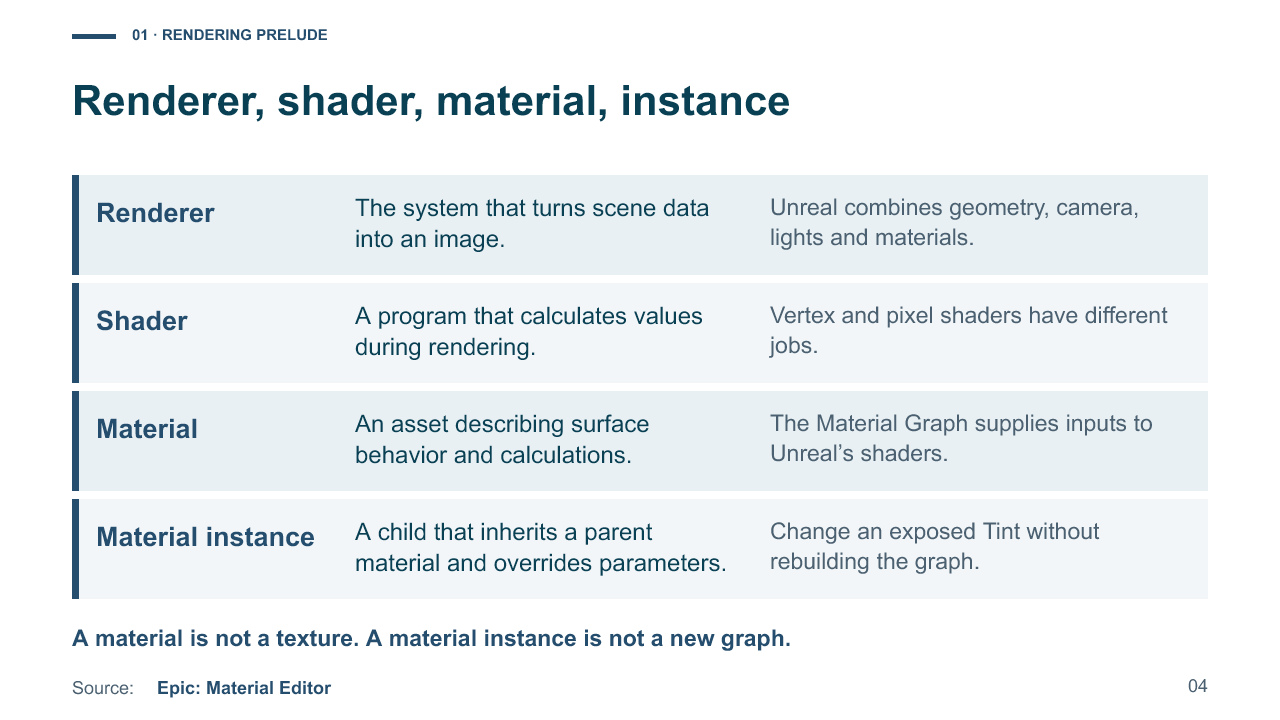
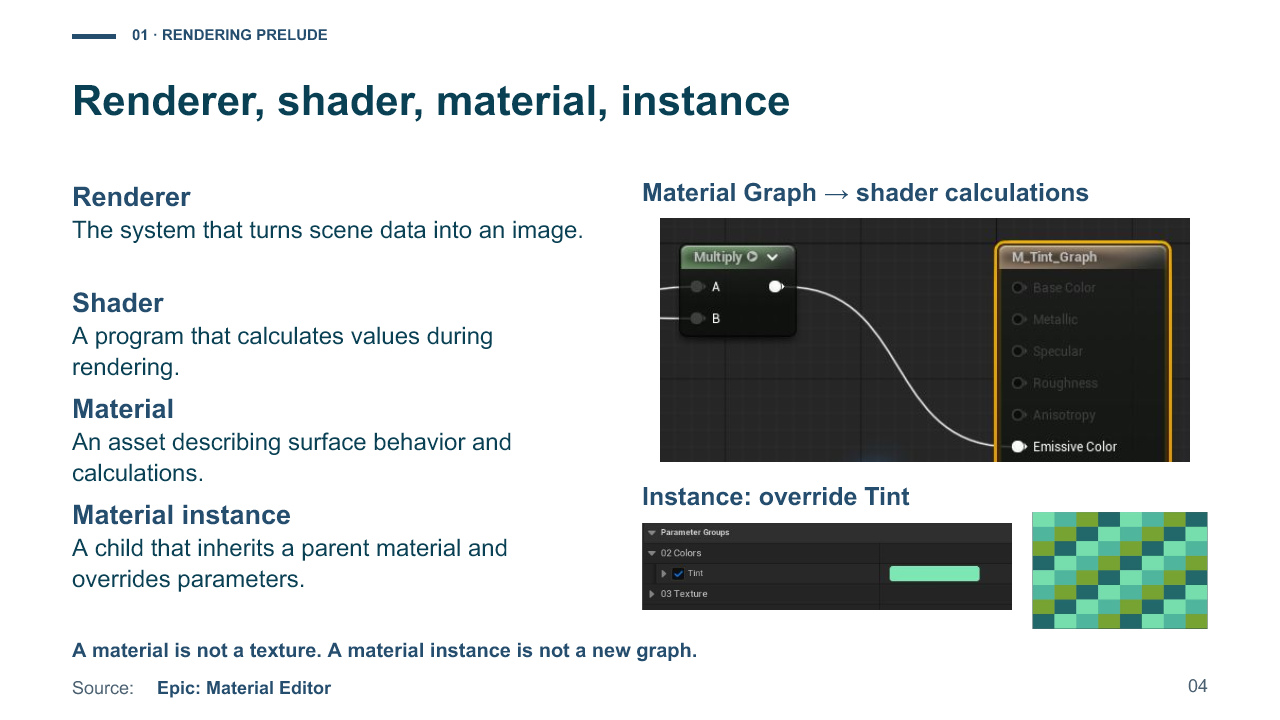
Illustrate the rendering prelude and refresh the current deck

Changed region(s): [[0.0312, 0.2444, 0.9688, 0.9167]]

diff --git a/docs/slides/index.html b/docs/slides/index.html
@@ -1,4 +1,4 @@
-<!doctype html><html lang="en"><meta charset="utf-8"><meta name="viewport" content="width=device-width,initial-scale=1"><title>Week 8 · Shaders &amp; Rendering</title><style>*{box-sizing:border-box}body{font:18px/1.6 Arial;margin:0;background:#edf3f4;color:#123e4d}main,header{max-width:1240px;margin:auto;padding:24px}h1{font-size:42px;line-height:1.15}h2{margin-top:0}a{color:#087c78}nav{display:flex;gap:22px;flex-wrap:wrap}article,section.card{background:white;padding:24px;margin:24px 0;border-top:3px solid #09988e}img{max-width:100%;height:auto}pre,code{font-family:Consolas,monospace;overflow-wrap:anywhere}pre{white-space:pre-wrap;background:#edf3f4;padding:15px}table{border-collapse:collapse;width:100%}th,td{padding:12px;border:1px solid #b9ced0;text-align:left}th{background:#0a4054;color:white}input,select,button,textarea{font:inherit;padding:10px;color:inherit}textarea{width:100%;min-height:110px}small{color:#526c75}.grid{display:grid;grid-template-columns:repeat(2,minmax(0,1fr));gap:20px}.tag{color:#087c78;font-size:14px;text-transform:uppercase}details{margin:15px 0}summary{cursor:pointer}button{cursor:pointer;background:white;border:1px solid #78a4aa}a:focus-visible,button:focus-visible,input:focus-visible{outline:3px solid #e3a635} @media(max-width:800px){.grid{grid-template-columns:1fr}h1{font-size:32px}}@media print{nav,button{display:none}article{break-inside:avoid}}body{background:#102e3c;color:white}header{max-width:none;padding:10px 24px;display:flex;gap:15px;align-items:center;flex-wrap:wrap}header a{color:#a2e1dc}main{padding:8px 20px;max-width:1400px}#stage{position:relative;aspect-ratio:16/9;background:white}#slide{display:block;width:100%;height:100%;object-fit:contain}#motion{position:absolute;object-fit:contain}#demo{width:100%;height:100%;border:0;position:absolute;inset:0;background:#edf3f4}#notes{background:#fff;color:#123e4d;padding:22px}#notes p{white-space:pre-wrap}#keySources{background:#edf3f4;color:#123e4d;padding:16px 22px;margin:14px 0}#keySources:empty{display:none}#keySources a{color:#087b77;font-weight:bold}#keySources p{margin:4px 0 14px;font-size:16px}#caption{margin:8px 0}select{max-width:420px}a[hidden],button[hidden],img[hidden],iframe[hidden]{display:none}header button,header select{color:#123e4d;background:#fff}/* classroom-fit: show the entire slide without vertical cropping */ #stage{width:min(100%,calc((100dvh - 165px)*16/9));margin:0 auto;min-width:0} @media(max-width:700px){#stage{width:100%}} </style><header><a href="../../index.html">Classroom</a><a href="../class-guide.html">Class guide</a><a href="../dig-deeper.html">References</a><button id="prev">← Previous</button><button id="next">Next →</button><select id="route" aria-label="Presentation route"><option value="live">Live route</option><option value="all">All slides + optional</option></select><select id="chapter" aria-label="Agenda chapter"></select><select id="pick" aria-label="Slide"></select><a id="guest" href="../guest/Rasterization.pdf" target="_blank" rel="noopener" hidden>Ned’s original slides (PDF)</a><button id="live" hidden>Explore live GLSL</button><button id="motionButton" hidden>Pause animation</button><a href="https://github.com/anthonymonteagudo/Week08-Shaders/releases/download/week08-2026-10-22/Week08_Shaders_Rendering_v5_Final.pptx">Download PowerPoint</a></header><main><div id="stage"><img id="slide" alt=""><img id="motion" alt="Animated material result" hidden><iframe id="demo" title="Interactive GLSL shader example" hidden></iframe></div><p id="caption"></p><aside id="keySources" aria-label="Key sources for this slide"></aside><details id="notes"><summary>Explanation and references</summary><p id="narration"></p><div id="sources"></div></details></main><script type="module">
+<!doctype html><html lang="en"><meta charset="utf-8"><meta name="viewport" content="width=device-width,initial-scale=1"><title>Week 8 · Shaders &amp; Rendering</title><style>*{box-sizing:border-box}body{font:18px/1.6 Arial;margin:0;background:#edf3f4;color:#123e4d}main,header{max-width:1240px;margin:auto;padding:24px}h1{font-size:42px;line-height:1.15}h2{margin-top:0}a{color:#087c78}nav{display:flex;gap:22px;flex-wrap:wrap}article,section.card{background:white;padding:24px;margin:24px 0;border-top:3px solid #09988e}img{max-width:100%;height:auto}pre,code{font-family:Consolas,monospace;overflow-wrap:anywhere}pre{white-space:pre-wrap;background:#edf3f4;padding:15px}table{border-collapse:collapse;width:100%}th,td{padding:12px;border:1px solid #b9ced0;text-align:left}th{background:#0a4054;color:white}input,select,button,textarea{font:inherit;padding:10px;color:inherit}textarea{width:100%;min-height:110px}small{color:#526c75}.grid{display:grid;grid-template-columns:repeat(2,minmax(0,1fr));gap:20px}.tag{color:#087c78;font-size:14px;text-transform:uppercase}details{margin:15px 0}summary{cursor:pointer}button{cursor:pointer;background:white;border:1px solid #78a4aa}a:focus-visible,button:focus-visible,input:focus-visible{outline:3px solid #e3a635} @media(max-width:800px){.grid{grid-template-columns:1fr}h1{font-size:32px}}@media print{nav,button{display:none}article{break-inside:avoid}}body{background:#102e3c;color:white}header{max-width:none;padding:10px 24px;display:flex;gap:15px;align-items:center;flex-wrap:wrap}header a{color:#a2e1dc}main{padding:8px 20px;max-width:1400px}#stage{position:relative;aspect-ratio:16/9;background:white}#slide{display:block;width:100%;height:100%;object-fit:contain}#motion{position:absolute;object-fit:contain}#demo{width:100%;height:100%;border:0;position:absolute;inset:0;background:#edf3f4}#notes{background:#fff;color:#123e4d;padding:22px}#notes p{white-space:pre-wrap}#keySources{background:#edf3f4;color:#123e4d;padding:16px 22px;margin:14px 0}#keySources:empty{display:none}#keySources a{color:#087b77;font-weight:bold}#keySources p{margin:4px 0 14px;font-size:16px}#caption{margin:8px 0}select{max-width:420px}a[hidden],button[hidden],img[hidden],iframe[hidden]{display:none}header button,header select{color:#123e4d;background:#fff}/* classroom-fit: show the entire slide without vertical cropping */ #stage{width:min(100%,calc((100dvh - 165px)*16/9));margin:0 auto;min-width:0} @media(max-width:700px){#stage{width:100%}} </style><header><a href="../../index.html">Classroom</a><a href="../class-guide.html">Class guide</a><a href="../dig-deeper.html">References</a><button id="prev">← Previous</button><button id="next">Next →</button><select id="route" aria-label="Presentation route"><option value="live">Live route</option><option value="all">All slides + optional</option></select><select id="chapter" aria-label="Agenda chapter"></select><select id="pick" aria-label="Slide"></select><a id="guest" href="../guest/Rasterization.pdf" target="_blank" rel="noopener" hidden>Ned’s original slides (PDF)</a><button id="live" hidden>Explore live GLSL</button><button id="motionButton" hidden>Pause animation</button><a href="https://github.com/anthonymonteagudo/Week08-Shaders/releases/download/week08-2026-10-22/Week08_Rendering_Prelude_v6_Final.pptx">Download PowerPoint</a></header><main><div id="stage"><img id="slide" alt=""><img id="motion" alt="Animated material result" hidden><iframe id="demo" title="Interactive GLSL shader example" hidden></iframe></div><p id="caption"></p><aside id="keySources" aria-label="Key sources for this slide"></aside><details id="notes"><summary>Explanation and references</summary><p id="narration"></p><div id="sources"></div></details></main><script type="module">
 const data=await(await fetch('slides.json')).json(),$=id=>document.getElementById(id);let index=0,live=false,motion=true;
 function routeData(){return data.filter(d=>$('route').value==='all'||!d.appendix)}
 function options(){const shown=routeData();$('chapter').replaceChildren();for(const c of [...new Set(shown.map(d=>d.section))])$('chapter').add(new Option(c,shown.find(d=>d.section===c).number));$('pick').replaceChildren();shown.forEach(d=>$('pick').add(new Option(d.number+' · '+d.title+(d.appendix?' [optional]':''),d.number-1)));}

diff --git a/THIRD_PARTY_NOTICES.md b/THIRD_PARTY_NOTICES.md
@@ -16,3 +16,5 @@ Wind Waker HD screenshot: official Nintendo screenshot 01 and a detail crop, use
 Native node recognition crops and view-angle graph: Epic Games, Math Material Expressions documentation. Copyright Epic Games; attributed teaching references, not relicensed as classroom code. Original capture version is unstated. https://dev.epicgames.com/documentation/en-us/unreal-engine/math-material-expressions-in-unreal-engine .
 
 Lighting portrait: copyright David Tejada, published by Nikon, Simple Two-Flash Set-up. Used as an attributed teaching reference; not covered by the classroom code license. https://www.nikonusa.com/learn-and-explore/c/tips-and-techniques/simple-two-flash-set-up . Standard mathematical equations are typeset with links to Wikipedia; explanatory teaching prose and code examples are original.
+
+Rendering prelude (slides 4–7): the headphone UV-layout image is retained from the existing Week 2 teaching reference, credited there to https://www.artstation.com/ib_art. The original work URL and license are unconfirmed; no new license is claimed. The brick cube is an original Unreal teaching capture using an Epic Content Examples texture and WorldAlignedTexture. These are separate examples, not a matched before/after. The coverage schematic is an original course diagram; the dot-product sphere is the existing Week 5 Babylon Node Material preview, not an Unreal scene-light capture.
